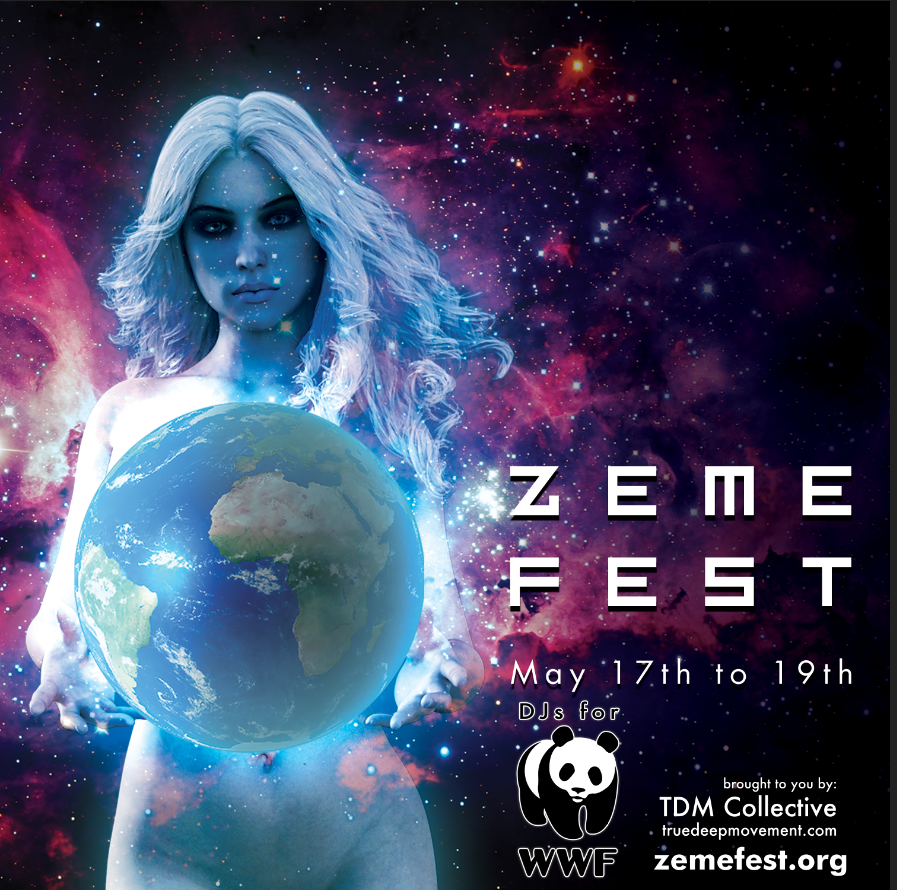
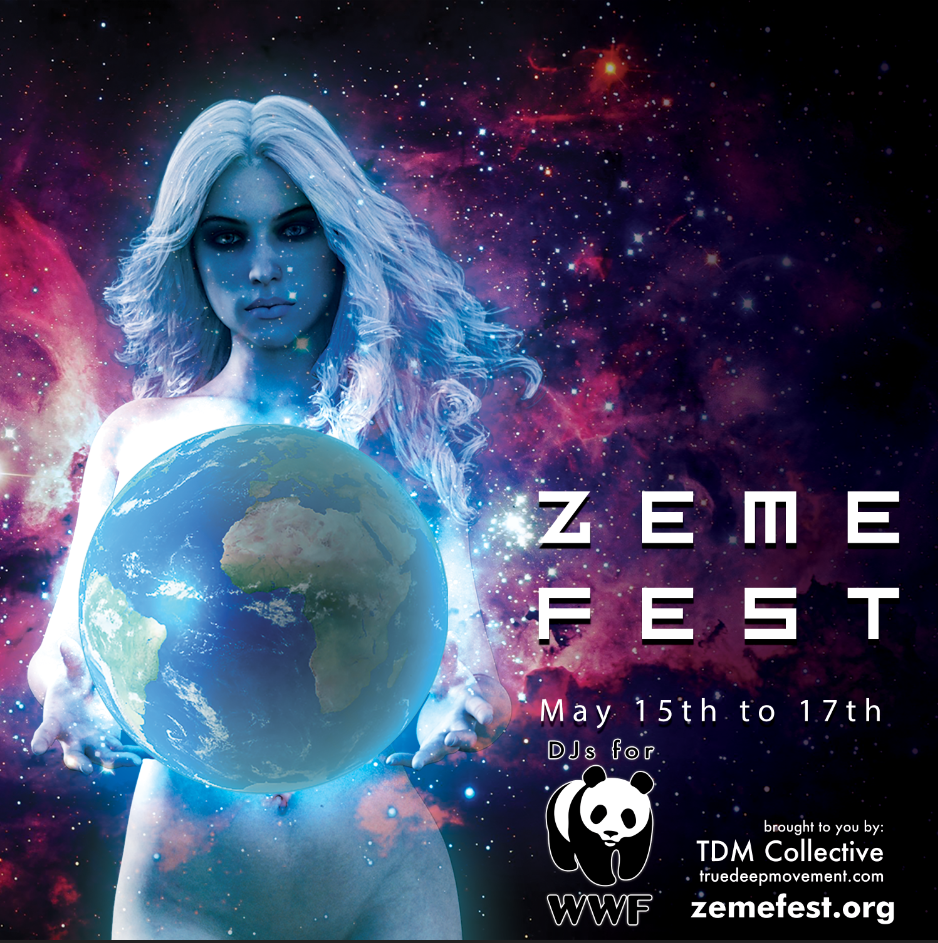
Update streamer times, home page poster and text

diff --git a/index.html b/index.html
@@ -135,7 +135,7 @@
 		"</div>\n" +
 		"</div>"
 	
-	const homeScroller = "<div class=\'scroller\' id=\'scroller-home\' style=\'flex-flow: row; align-items: center; background-color: #222222;\'>\n\t<div class=\'welcome\' style=\'flex-grow: 1; height: 100%; display: block; text-align: center; overflow: auto\'>\n\t\t<img src=\"img/poster.png\" height=\'100%\' style=\'object-fit: contain; max-width: 100%\' alt=\"Zemefest poster\">\n\t\t<h1>Welcome to Zeme Fest!</h1>\n\t\t<span style=\'font-size: 2vmax; padding: 0 2vmax 1vmax;\'>Zeme Festval (DJs for WWF) are fundraising for World Wildlife Fund because we want to protect the future of nature. Brought to you by True Deep Movement (TDM Collective). I have asked twitch communities to join me to help raise money to give back to the awesome planet we live on.\n<br><br>\nI’m Very Excited to have many talented djs and live performances to help raise money for the WWF (WORLD WILDLIFE FUND), with twitch committees that have very talented people to combine into a larger network to help the world become a better place. In May of 2019 WE raised 2,100 with in 3 days, Lets see if we can raid anouther 2,000 for 2020!\n<br><br>\nDeforestation, climate change, water scarcity, and illegal wildlife trade. These are some of the threats facing our planet today—and no one person or group can tackle them alone. But if we work together, we can take on anything.\n<br><br>\nWe can protect the very things that keep us alive: our forests, our oceans, our fresh water, our wildlife, our energy supply, our food supply. \n<br><br>\nThank you for giving what you can.</span>\n\t</div>\n</div>"
+	const homeScroller = "<div class=\'scroller\' id=\'scroller-home\' style=\'flex-flow: row; align-items: center; background-color: #222222;\'>\n\t<div class=\'welcome\' style=\'flex-grow: 1; height: 100%; display: block; text-align: center; overflow: auto\'>\n\t\t<img src=\"img/poster.png\" height=\'100%\' style=\'object-fit: contain; max-width: 100%\' alt=\"Zemefest poster\">\n\t\t<h1>Welcome to Zeme Fest!</h1>\n\t\t<span style=\'font-size: 2vmax; padding: 0 2vmax 1vmax;\'>Zeme Festival (Djs for WWF) are fundraising for World Wildlife Fund because we want to protect the future of nature. Brought to you by True Deep Movement (TDM Collective). I have asked twitch communities to join me to help raise money to give back to the awesome planet we live on.\n<br><br>\nI’m Very Excited to have many talented djs and live performances to help raise money for the WWF (WORLD WILDLIFE FUND), with twitch committees that have very talented people to combine into a larger network to help the world become a better place. In May of 2019 WE raised 2,100 with in 3 days, Lets see if we can raid anouther 2,000 for 2020!\n<br><br>\nDeforestation, climate change, water scarcity, and illegal wildlife trade. These are some of the threats facing our planet today—and no one person or group can tackle them alone. But if we work together, we can take on anything.\n<br><br>\nWe can protect the very things that keep us alive: our forests, our oceans, our fresh water, our wildlife, our energy supply, our food supply. \n<br><br>\nThank you for giving what you can.</span>\n\t</div>\n</div>"
 	
 	let busy = false;
 	

diff --git a/streams.js b/streams.js
@@ -21,10 +21,10 @@ const streams = [
 		name: "Paul Velocity", twitch: "paulvelocity", start: new Date(Date.UTC(2020, 4, 16, 6)), end: null
 	},
 	{
-		name: "Eric Skiles", twitch: "ericskiles", start: new Date(Date.UTC(2020, 4, 16, 8)), end: new Date(Date.UTC(2020, 4, 16, 10))
+		name: "Eric Skiles", twitch: "ericskiles", start: new Date(Date.UTC(2020, 4, 16, 8)), end: null
 	},
 	{
-		name: "Ampsnd", twitch: "ampsnd", start: new Date(Date.UTC(2020, 4, 16, 12)), end: new Date(Date.UTC(2020, 4, 16, 14))
+		name: "Ampsnd", twitch: "ampsnd", start: new Date(Date.UTC(2020, 4, 16, 10)), end: new Date(Date.UTC(2020, 4, 16, 12))
 	},
 	{
 		name: "DJ Fuzzy Logic", twitch: "dj_fuzzylogic", start: new Date(Date.UTC(2020, 4, 16, 16)), end: null
